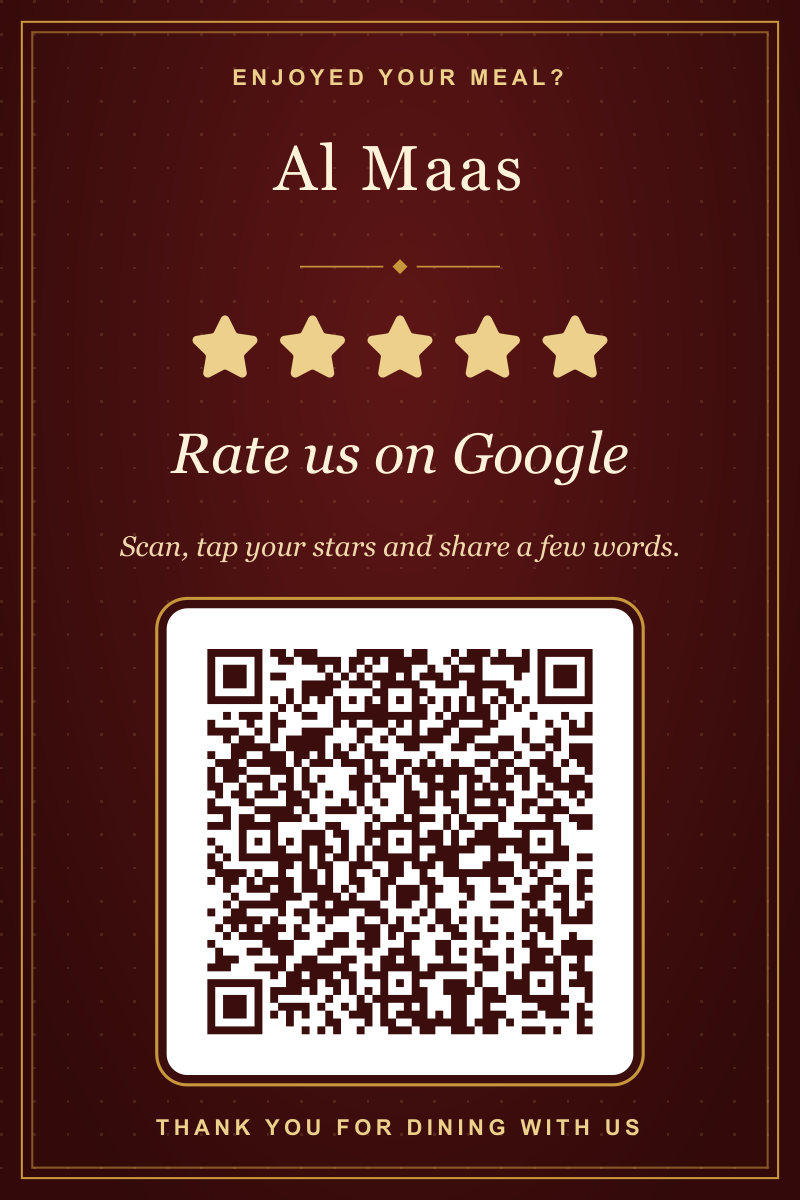
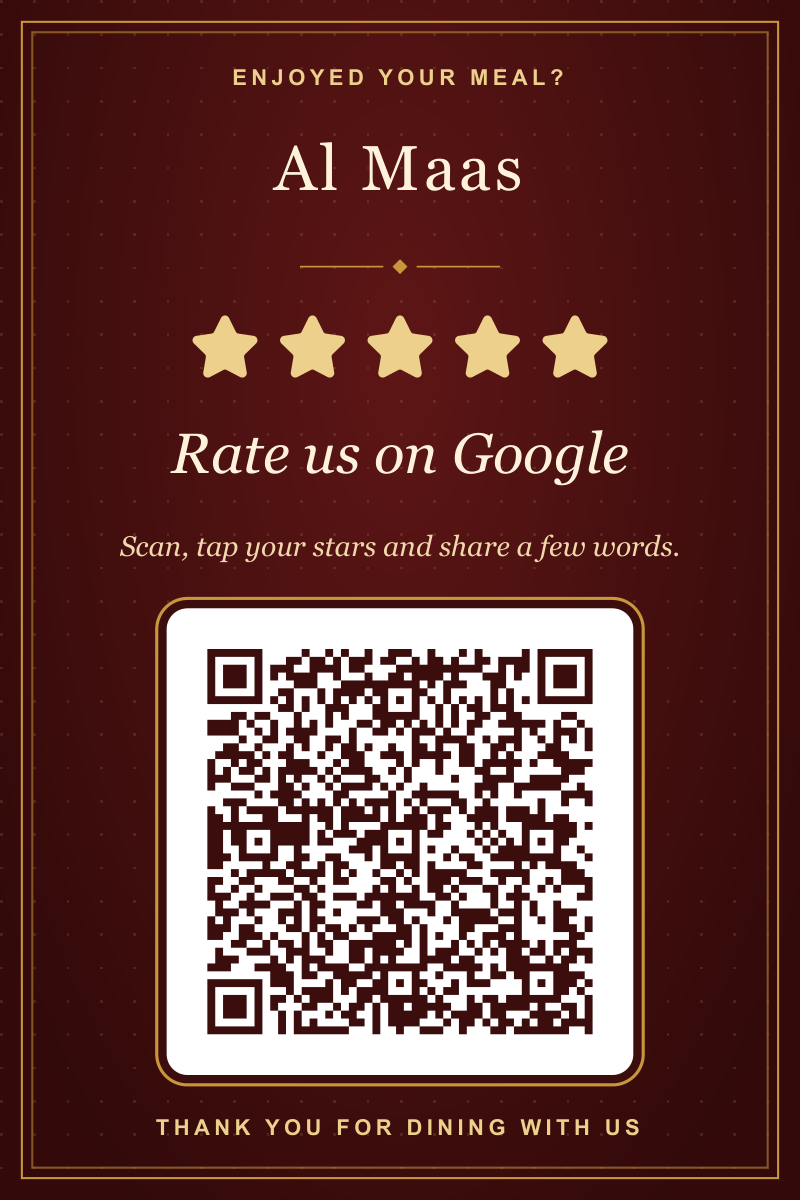
Use Al Maas's real Google place ID on the review card
The review card QR now opens https://search.google.com/local/writereview?placeid=ChIJ4X70MNn34joRjj4MMh0RQ0s
instead of a placeholder. Re-exported the 4x6 PDF and review card PNG; both
QR codes decode and both pages are exactly 4 x 6 in. The cards page note no
longer says the ID is a placeholder.

Changed region(s): [[0.25, 0.5242, 0.75, 0.8633]]

diff --git a/src/components/DemoCards.jsx b/src/components/DemoCards.jsx
@@ -26,7 +26,7 @@ export default function DemoCards() {
       <div><h1>{DEMO_SHOP.name}: two printable cards</h1><p>Each card is 4 × 6 in, portrait. Print at 100% scale with margins set to None, one card per page.</p></div>
       <div className="demo-cards-actions"><button type="button" className="btn btn-primary" onClick={() => window.print()}><Printer size={16} aria-hidden="true" />Print both cards</button><a className="btn btn-secondary" href="/demo?view=menu" target="_blank" rel="noopener noreferrer">View demo menu <ExternalLink size={14} aria-hidden="true" /></a></div>
     </header>
-    <p className="demo-cards-note no-print">Sample data: dishes and prices are examples. The review card’s QR still holds a placeholder Google place ID, so replace it with {DEMO_SHOP.name}’s own before printing for real.</p>
+    <p className="demo-cards-note no-print">Sample data: dishes and prices are examples. The review card’s QR opens {DEMO_SHOP.name}’s Google review form using the place ID the owner supplied.</p>
     <div className="demo-cards-row">
       <section className="demo-card-sheet" aria-label="Table menu card">
         <div className="poster-preview-card poster-format-tabletop premium-card pc-menu">

diff --git a/src/data/demoShop.js b/src/data/demoShop.js
@@ -84,8 +84,8 @@ const ROWS = [
 ];
 
 export const DEMO_SHOP_ID = 'demo-al-maas';
-// Replace the place ID with the real shop's. This one only marks where it goes.
-export const DEMO_GOOGLE_REVIEW_URL = 'https://search.google.com/local/writereview?placeid=REPLACE_WITH_PLACE_ID';
+// Al Maas's Google place ID, as supplied by the owner.
+export const DEMO_GOOGLE_REVIEW_URL = 'https://search.google.com/local/writereview?placeid=ChIJ4X70MNn34joRjj4MMh0RQ0s';
 
 export const DEMO_SHOP = {
   id: DEMO_SHOP_ID,
